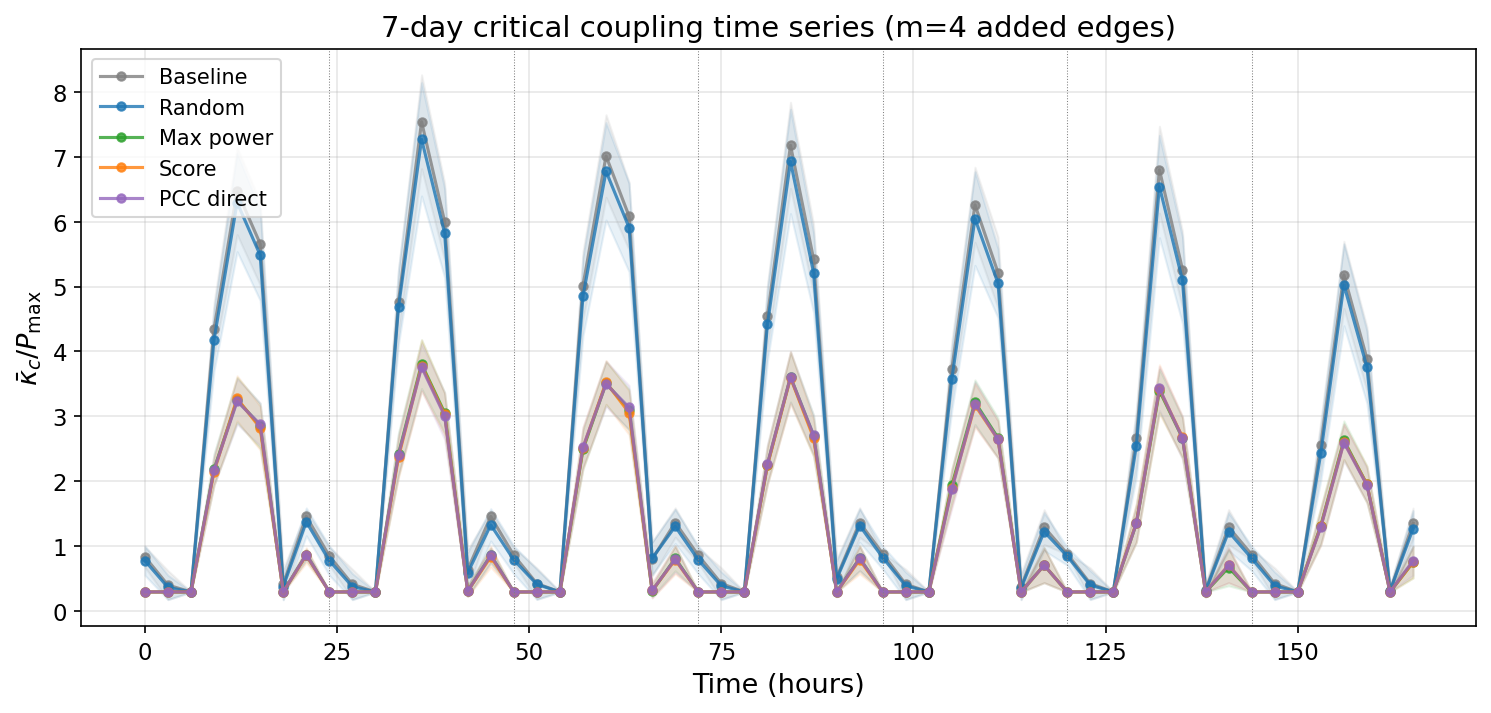
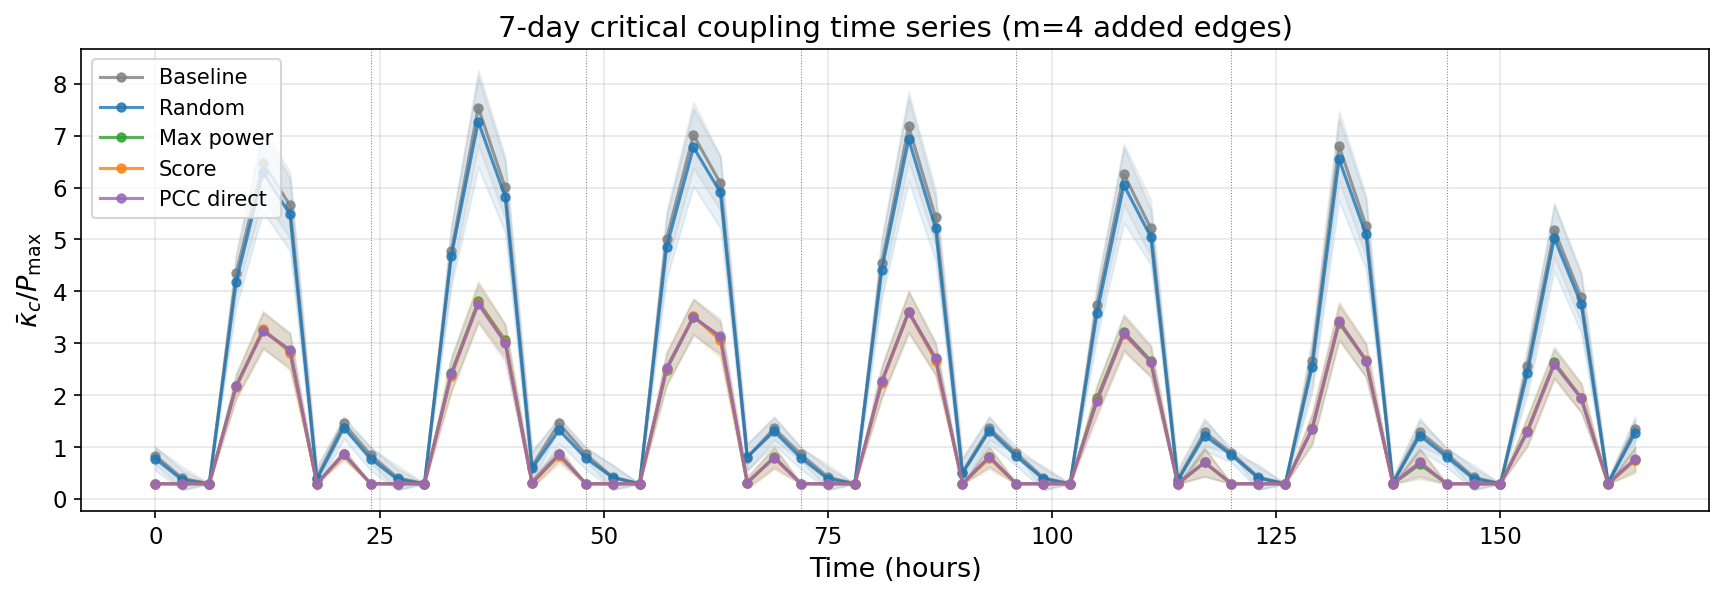
style: update figure sizes and layouts for improved visualization

diff --git a/sq3_data/plot_sq3.py b/sq3_data/plot_sq3.py
@@ -41,7 +41,7 @@ TIMESTEP_ORDER = ["00:00", "06:00", "09:00", "12:00", "18:00"]
 
 
 def plot_sq3_1():
-    """SQ3-1: S vs alpha/alpha* multi-panel, 5 rows (timesteps), 4 lines (m configs)."""
+    """SQ3-1: S vs alpha/alpha* multi-panel, 2x3 grid (5 timesteps + empty)."""
     sweep_path = os.path.join(RESULTS_DIR, "multistep", "sq3_multistep_sweep.csv")
     if not os.path.exists(sweep_path):
         print(f"  SKIP SQ3-1: {sweep_path} not found")
@@ -49,10 +49,11 @@ def plot_sq3_1():
 
     df = pd.read_csv(sweep_path)
 
-    fig, axes = plt.subplots(5, 1, figsize=(10, 18), sharex=True, sharey=True)
+    fig, axes = plt.subplots(2, 3, figsize=(14, 8), sharex=True, sharey=True)
+    axes_flat = axes.flatten()
 
-    for row_idx, t_label in enumerate(TIMESTEP_ORDER):
-        ax = axes[row_idx]
+    for panel_idx, t_label in enumerate(TIMESTEP_ORDER):
+        ax = axes_flat[panel_idx]
         df_t = df[df["timestep"] == t_label]
 
         for (m, strategy), group in df_t.groupby(["m", "strategy"]):
@@ -70,16 +71,23 @@ def plot_sq3_1():
                             agg["mean"] + agg["std"],
                             alpha=0.15, color=color)
 
-        ax.set_ylabel(r"$S$", fontsize=11)
         ax.set_title(f"t = {t_label}", fontsize=12)
         ax.set_ylim(-0.05, 1.05)
         ax.grid(True, alpha=0.3)
         ax.axhline(0.5, color='gray', linestyle='--', alpha=0.5)
-        if row_idx == 0:
-            ax.legend(fontsize=9, loc='upper left')
+        if panel_idx == 0:
+            ax.legend(fontsize=8, loc='upper left')
 
-    axes[-1].set_xlabel(r"$\alpha / \alpha^*$", fontsize=12)
-    fig.suptitle("SQ3-1: Cascade Resilience Across Times of Day", fontsize=14, y=0.995)
+    # Hide 6th panel
+    axes_flat[5].set_visible(False)
+
+    # Axis labels on edge panels only
+    for ax in axes[:, 0]:
+        ax.set_ylabel(r"$S$", fontsize=11)
+    for ax in axes[1, :]:
+        ax.set_xlabel(r"$\alpha / \alpha^*$", fontsize=12)
+
+    fig.suptitle("SQ3-1: Cascade Resilience Across Times of Day", fontsize=14)
     fig.tight_layout()
 
     fig_path = os.path.join(FIGURES_DIR, "fig_sq3_1_sigmoid_multipanel.png")
@@ -89,7 +97,7 @@ def plot_sq3_1():
 
 
 def plot_sq3_2():
-    """SQ3-2: Edge survival by type at fixed absolute alpha slices (3 rows x 5 cols)."""
+    """SQ3-2: Edge survival by type at fixed absolute alpha slices (3 rows x 2 cols: 06:00, 12:00)."""
     sweep_path = os.path.join(RESULTS_DIR, "multistep", "sq3_multistep_sweep.csv")
     if not os.path.exists(sweep_path):
         print(f"  SKIP SQ3-2: {sweep_path} not found")
@@ -98,16 +106,17 @@ def plot_sq3_2():
     df = pd.read_csv(sweep_path)
     df["alpha_abs"] = df["alpha_over_alpha_star"] * df["alpha_star"]
 
+    timesteps_selected = ["06:00", "12:00"]
     slice_fractions = [0.3, 0.6, 0.9]
     n_rows = len(slice_fractions)
-    n_cols = len(TIMESTEP_ORDER)
+    n_cols = len(timesteps_selected)
 
-    fig, axes = plt.subplots(n_rows, n_cols, figsize=(20, 12), sharey='row')
+    fig, axes = plt.subplots(n_rows, n_cols, figsize=(10, 12), sharey='row')
 
     # Config ordering for consistent bar positions
     config_keys_ordered = ["m=0_pcc_direct", "m=4_pcc_direct", "m=8_pcc_direct", "m=4_random"]
 
-    for col_idx, t_label in enumerate(TIMESTEP_ORDER):
+    for col_idx, t_label in enumerate(timesteps_selected):
         df_t = df[df["timestep"] == t_label]
         median_alpha_star = df_t["alpha_star"].median()
 

diff --git a/sq2_data/plot_results.py b/sq2_data/plot_results.py
@@ -64,7 +64,7 @@ def plot_trajectory(results_dir: str, output_dir: str, season: str):
     points = list(zip(eta_plus, eta_minus, eta_p))
 
     fig, tax = ternary.figure(scale=scale)
-    fig.set_size_inches(10, 8)
+    fig.set_size_inches(7, 6)
     tax.boundary(linewidth=1.5)
     tax.gridlines(multiple=0.1, color="gray", linewidth=0.3, alpha=0.5)
 
@@ -159,7 +159,7 @@ def plot_kappa_timeseries(results_dir: str, output_dir: str, season: str):
     # x-axis: continuous time in days
     x = days + hours_in_day / 24.0
 
-    fig, ax = plt.subplots(figsize=(10, 4.5))
+    fig, ax = plt.subplots(figsize=(12, 3.5))
 
     ax.plot(x, kc_mean, "b-", linewidth=1.5, label="$\\bar{\\kappa}_c / P_{\\max}$")
     ax.fill_between(

diff --git a/sq4_data/plot_sq4.py b/sq4_data/plot_sq4.py
@@ -108,7 +108,7 @@ def plot_4b2_strategy_timeseries(results_dir: str, m: int, out_dir: str):
     colors = ["gray", "tab:blue", "tab:green", "tab:orange", "tab:purple"]
     labels = ["Baseline", "Random", "Max power", "Score", "PCC direct"]
 
-    fig, ax = plt.subplots(figsize=(12, 5))
+    fig, ax = plt.subplots(figsize=(14, 4))
     for strat, color, label in zip(strategies, colors, labels):
         csv_path = os.path.join(results_dir, f"kappa_ts_{strat}_m{m}.csv")
         if not os.path.exists(csv_path):
